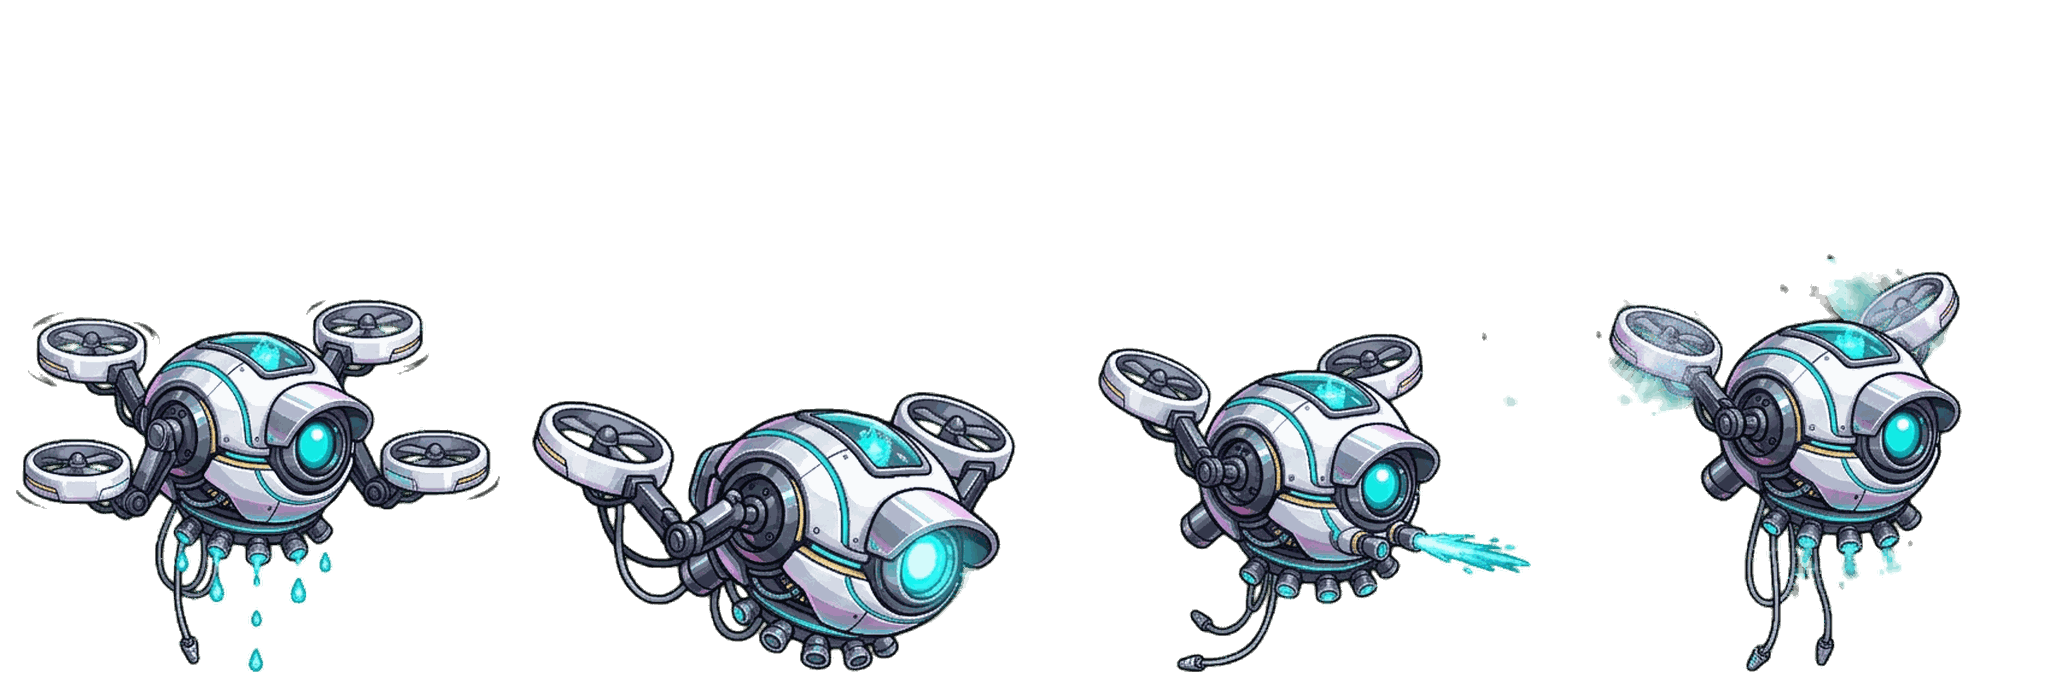
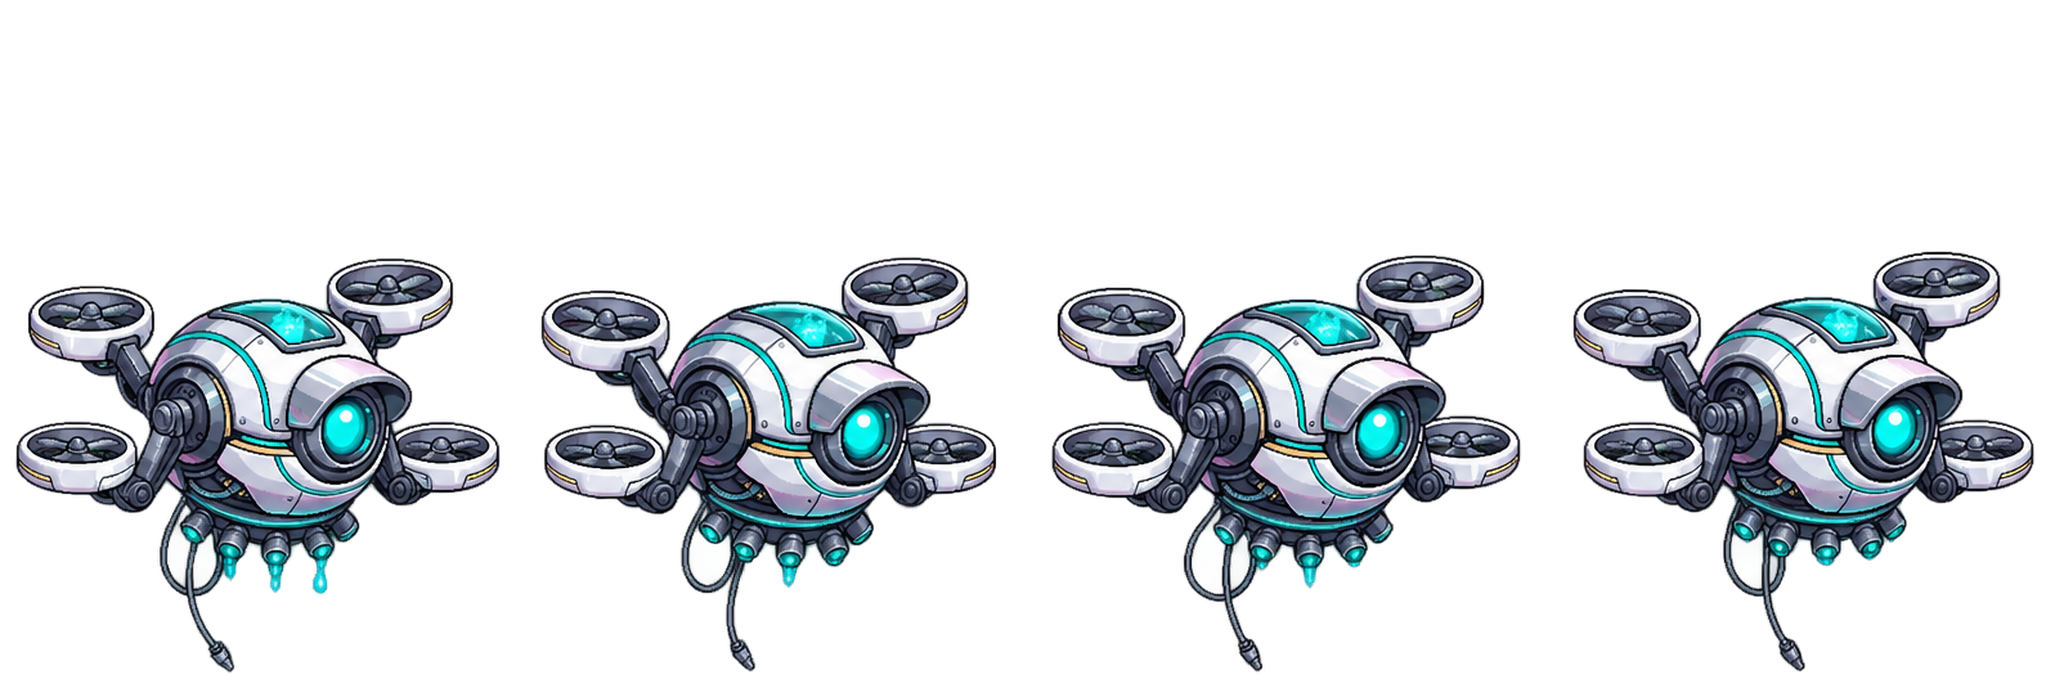
Round 299: the Rain Drone hovers (#79)
The owner's eight-frame hover for the Sky Isles' Rain Drone: frames 1, 3, 5
and 7 cut with one shared window, at .8s. SPRITE_VERSION 299.

Claude-Session: https://claude.ai/code/session_01XB2RMCaJ1aVVtBjSNk3FhS

Changed region(s): [[0.0, 0.3663, 0.9922, 0.9767]]

diff --git a/index.html b/index.html
@@ -553,7 +553,7 @@ if(localStorage.getItem(SAVE_KEY))$('resumeBtn').classList.remove('hidden');
 addEventListener('resize',()=>{fitWorld();fitMap();renderTalentConnectors()});fitWorld();
 requestAnimationFrame(loop);
 </script>
-<script src="assets/elaris-wildlife.js?v=round282"></script>
+<script src="assets/elaris-wildlife.js?v=round299"></script>
 <script src="assets/solaris-data.js?v=round232"></script>
 <script src="assets/expansion.js?v=round291"></script>
 <script src="assets/encounter-depth.js?v=round280"></script>
@@ -576,7 +576,7 @@ requestAnimationFrame(loop);
 <script src="assets/wilds-data.js?v=round232"></script>
 <script src="assets/vespera-data.js?v=round232"></script>
 <script src="assets/chronospire-data.js?v=round232"></script>
-<script src="assets/tile-worlds.js?v=round265"></script>
+<script src="assets/tile-worlds.js?v=round299"></script>
 <script src="assets/world-cards.js?v=round210"></script>
 <script src="assets/world-mechanics.js?v=round278"></script>
 <script src="assets/stagger.js?v=round189"></script>

diff --git a/assets/elaris-wildlife.js b/assets/elaris-wildlife.js
@@ -45,7 +45,7 @@ const cityMonsterArt=monsterArt;
 // Round 196: a sheet name with a folder ('sky/zenith-roc') is read from assets/monsters/<folder>/;
 // big:true draws it in the larger boss box.
 // Round 200: bump SPRITE_VERSION when sheets are re-cut, so browsers fetch the new images.
-const SPRITE_VERSION='282';
+const SPRITE_VERSION='299';
 function wildlifeSheetUrl(sheet){return 'assets/monsters/'+(sheet.includes('/')?sheet:'elaris/'+sheet)+'.png?v='+SPRITE_VERSION}
 monsterArt=function(id){const animal=ELARIS_WILDLIFE[id]||WILDLIFE_ART[id];if(!animal)return cityMonsterArt(id);return '<span class="monster-sprite wildlife-sprite'+(animal.big?' bloom-tyrant':'')+'" role="img" aria-label="'+animal.name+'" style="background-image:url('+wildlifeSheetUrl(animal.sheet)+');--wildlife-cycle:'+animal.cycle+'"></span>'};
 // Round 249: a boss node's sprite box was square (142px, sized for Neon Aftermath's boss pictures), which

diff --git a/assets/tile-worlds.js b/assets/tile-worlds.js
@@ -22,7 +22,7 @@ Object.assign(WORLD_NAMES, { sky: 'Sky Isles', wilds: 'Elaris' });
 // untinted through art-only keys.
 Object.assign(WILDLIFE_ART, {
   skyDrakeArt:  { name: 'Sunfeather Drake', sheet: 'sky/sunfeather-drake', cycle: '.8s' },
-  skyWispArt:   { name: 'Rain Drone', sheet: 'sky/rain-drone', cycle: '1.2s' }, // Round 222: replaces the Cloud Wisp
+  skyWispArt:   { name: 'Rain Drone', sheet: 'sky/rain-drone', cycle: '.8s' }, // Round 222: replaces the Cloud Wisp; Round 299: the owner's eight-frame hover
   skyHarpyArt:  { name: 'Gale Harpy', sheet: 'sky/gale-harpy', cycle: '.8s' },
   skyRamArt:    { name: 'Thunderhorn Ram', sheet: 'sky/thunderhorn-ram', cycle: '1.1s' },
   stormbellArt: { name: 'The Stormbell Warden', sheet: 'sky/stormbell-warden', cycle: '1.4s' },

diff --git a/CHANGES.md b/CHANGES.md
@@ -3496,6 +3496,17 @@ Playtest of Neon Aftermath's three relics (Moon Lens 5,4; Ember Sigil 5,7; Briar
 - Talent descriptions list the per-rank values. Tests updated: round76, chronospire,
   talent-matrix, card-variety, plating-armor.
 
+## Round 299: the Rain Drone hovers
+
+- The owner sent an eight-frame hover for the Sky Isles' Rain Drone (`skyWisp`), with spinning rotors and a swaying
+  cable. The source strip is `assets/monsters/sky/src/rain-drone-hover8.png`.
+- The frames were already aligned (upper body at x352, base at y600), so frames 1, 3, 5 and 7 are cut with one shared
+  window, as in Round 272, so the body doesn't jitter.
+- The window places the drone like the old sheet: about 484px wide, its cable near the frame's bottom. The result
+  replaces `assets/monsters/sky/rain-drone.png` and is padded.
+- The cycle is .8s (the owner's 800ms), down from 1.2s.
+- `SPRITE_VERSION` 299. New `tests/rain-drone.test.cjs`. Checked in Chromium on the map and in battle.
+
 ## Round 298: Neon Aftermath Nights (a content pack for the first world)
 
 The owner asked for more content in Neon Aftermath, to expand to other worlds if they like it. `assets/city-nights.js`

diff --git a/CLAUDE.md b/CLAUDE.md
@@ -4,7 +4,7 @@ Aethercede is a browser card-battler/exploration game in vanilla JS with no
 build step. Open `index.html` directly. `compendium.html` is the card
 gallery; `arena.html` is a standalone prototype and is left untouched.
 
-**Read `CHANGES.md` first.** Every round of work (Round 1 to Round 298) is
+**Read `CHANGES.md` first.** Every round of work (Round 1 to Round 299) is
 logged there with its reasoning. Add a new `## Round N:` entry for each
 change set.
 
